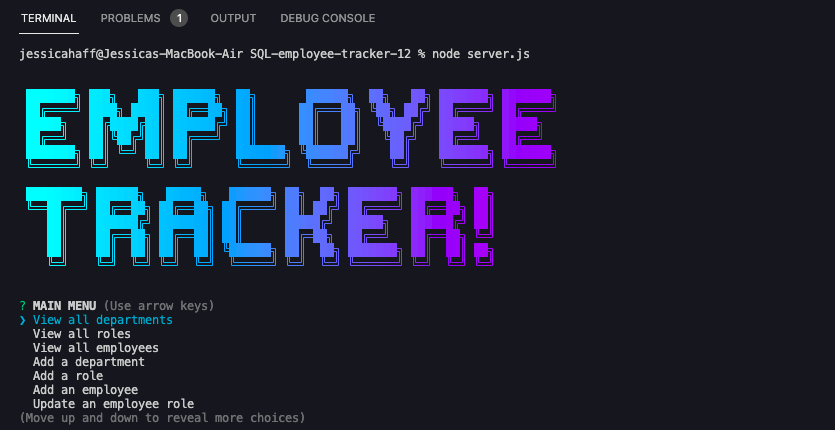
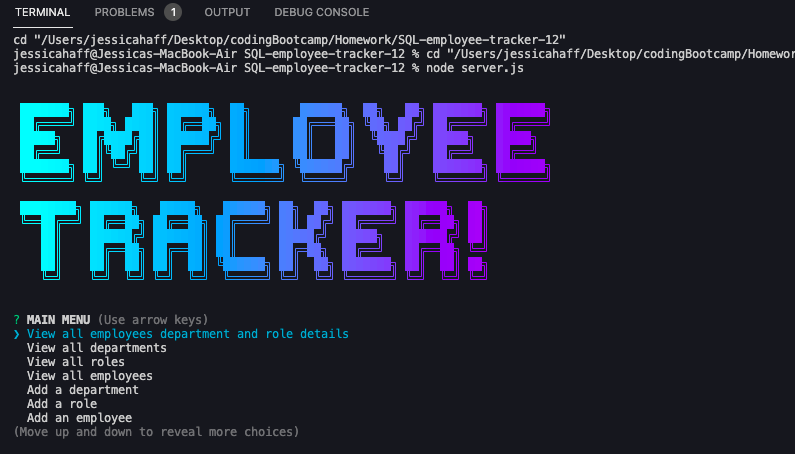
finished adding images and video link to README

Changed region(s): [[0.0, 0.0, 1.0, 0.6349], [0.0, 0.6953, 0.4528, 0.9977]]

diff --git a/README.md b/README.md
@@ -6,13 +6,23 @@
 ## Description
 A solution for managing a company's employees using node, inquirer, and MySQL.
 
+<br>
+
 ## Table of Contents
+* [Preview](#Preview)
 * [Installation](#Installation)
 * [Usage](#Usage)
 * [Contributing](#Contributing)
 * [Tests](#Test)
 * [Questions](#Questions)    
 * [License](#License)
+
+<br>
+
+## Preview
+<br>
+
+![View all employees by department and role](assets/images/employee-tracker-view-all-employees-by-department-and-role.png)
 
 ## Installation
 Run the following command to install all necessary dependencies:
@@ -32,8 +42,7 @@ npm install
 The below video demonstrates how to use this application:
 <BR>
 
-[VIDEO DEMONSTRATION](https://www.awesomescreenshot.com/video/7102774?key=a946708907f251efd3fba9bc60b19b62)
-
+[VIDEO DEMONSTRATION](https://www.awesomescreenshot.com/video/7102849?key=9c6f7768ada24da24a0501dda8f703ea)
 
 ## Contributing
 No contributions are needed at this time.
